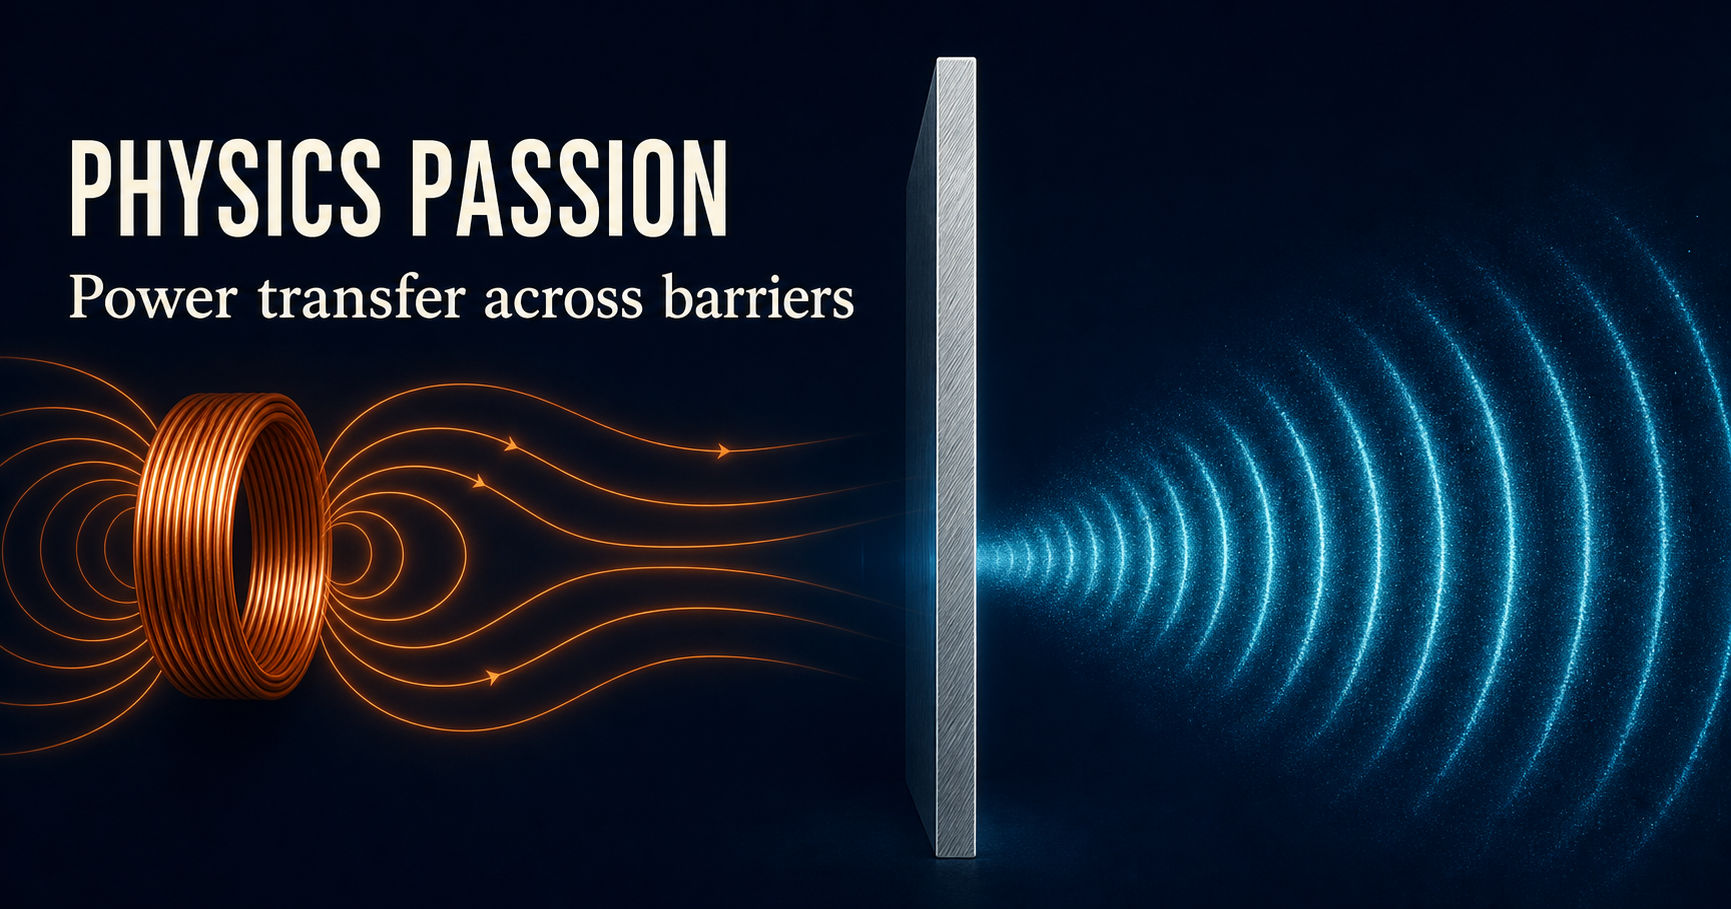
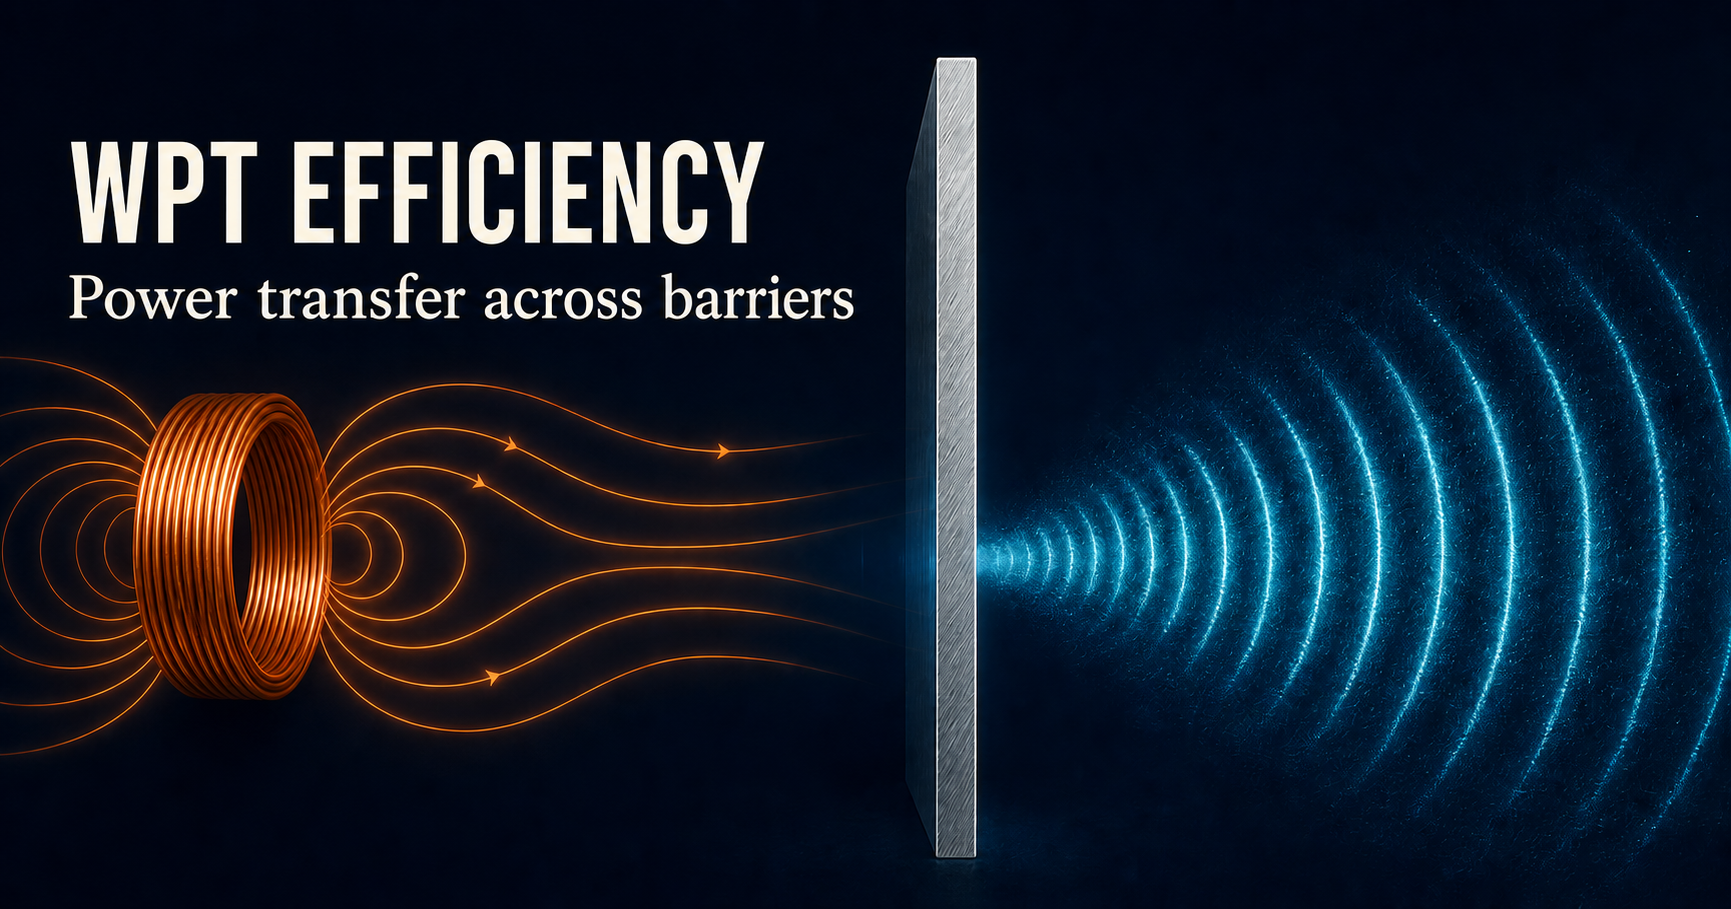
Rename project to WPT Efficiency

diff --git a/app/page.tsx b/app/page.tsx
@@ -12,7 +12,7 @@ import {
 } from "./project-data";
 
 export const metadata: Metadata = {
-  title: "Physics Passion Project | Power transfer across barriers",
+  title: "WPT Efficiency | Power transfer across barriers",
   description:
     "A two-track student physics study comparing inductive electromagnetic and ultrasonic acoustic power transfer across barriers.",
 };
@@ -66,7 +66,7 @@ export default function Home() {
     <main>
       <section className="hero" id="overview">
         <nav className="nav container" aria-label="Primary navigation">
-          <a className="brand" href="#overview" aria-label="Physics Passion Project home"><span>PP</span>Physics Passion</a>
+          <a className="brand" href="#overview" aria-label="WPT Efficiency home"><span>WE</span>WPT Efficiency</a>
           <div className="nav-links"><a href="#methods">Methods</a><a href="#results">Results</a><a href="#progress">Progress</a><a href="#contact">Contact</a></div>
         </nav>
 

diff --git a/app/layout.tsx b/app/layout.tsx
@@ -2,7 +2,7 @@ import type { Metadata } from "next";
 import "./globals.css";
 
 export const metadata: Metadata = {
-  title: "Physics Passion Project | Power transfer across barriers",
+  title: "WPT Efficiency | Power transfer across barriers",
   description:
     "A student physics study comparing inductive electromagnetic and ultrasonic acoustic power transfer across barriers.",
   icons: {
@@ -10,13 +10,13 @@ export const metadata: Metadata = {
     shortcut: "/favicon.svg",
   },
   openGraph: {
-    title: "Physics Passion Project",
+    title: "WPT Efficiency",
     description: "Electromagnetic and acoustic power transfer across barriers.",
     images: ["/og.png"],
   },
   twitter: {
     card: "summary_large_image",
-    title: "Physics Passion Project",
+    title: "WPT Efficiency",
     description: "Electromagnetic and acoustic power transfer across barriers.",
     images: ["/og.png"],
   },

diff --git a/app/project-data.ts b/app/project-data.ts
@@ -8,7 +8,7 @@ export type DataPoint = {
 };
 
 export const project = {
-  title: "Physics Passion Project",
+  title: "WPT Efficiency",
   subtitle: "Comparing electromagnetic and acoustic power transfer across barriers",
   status: "In progress - prototype design & mentor outreach",
   updated: "July 2026",
